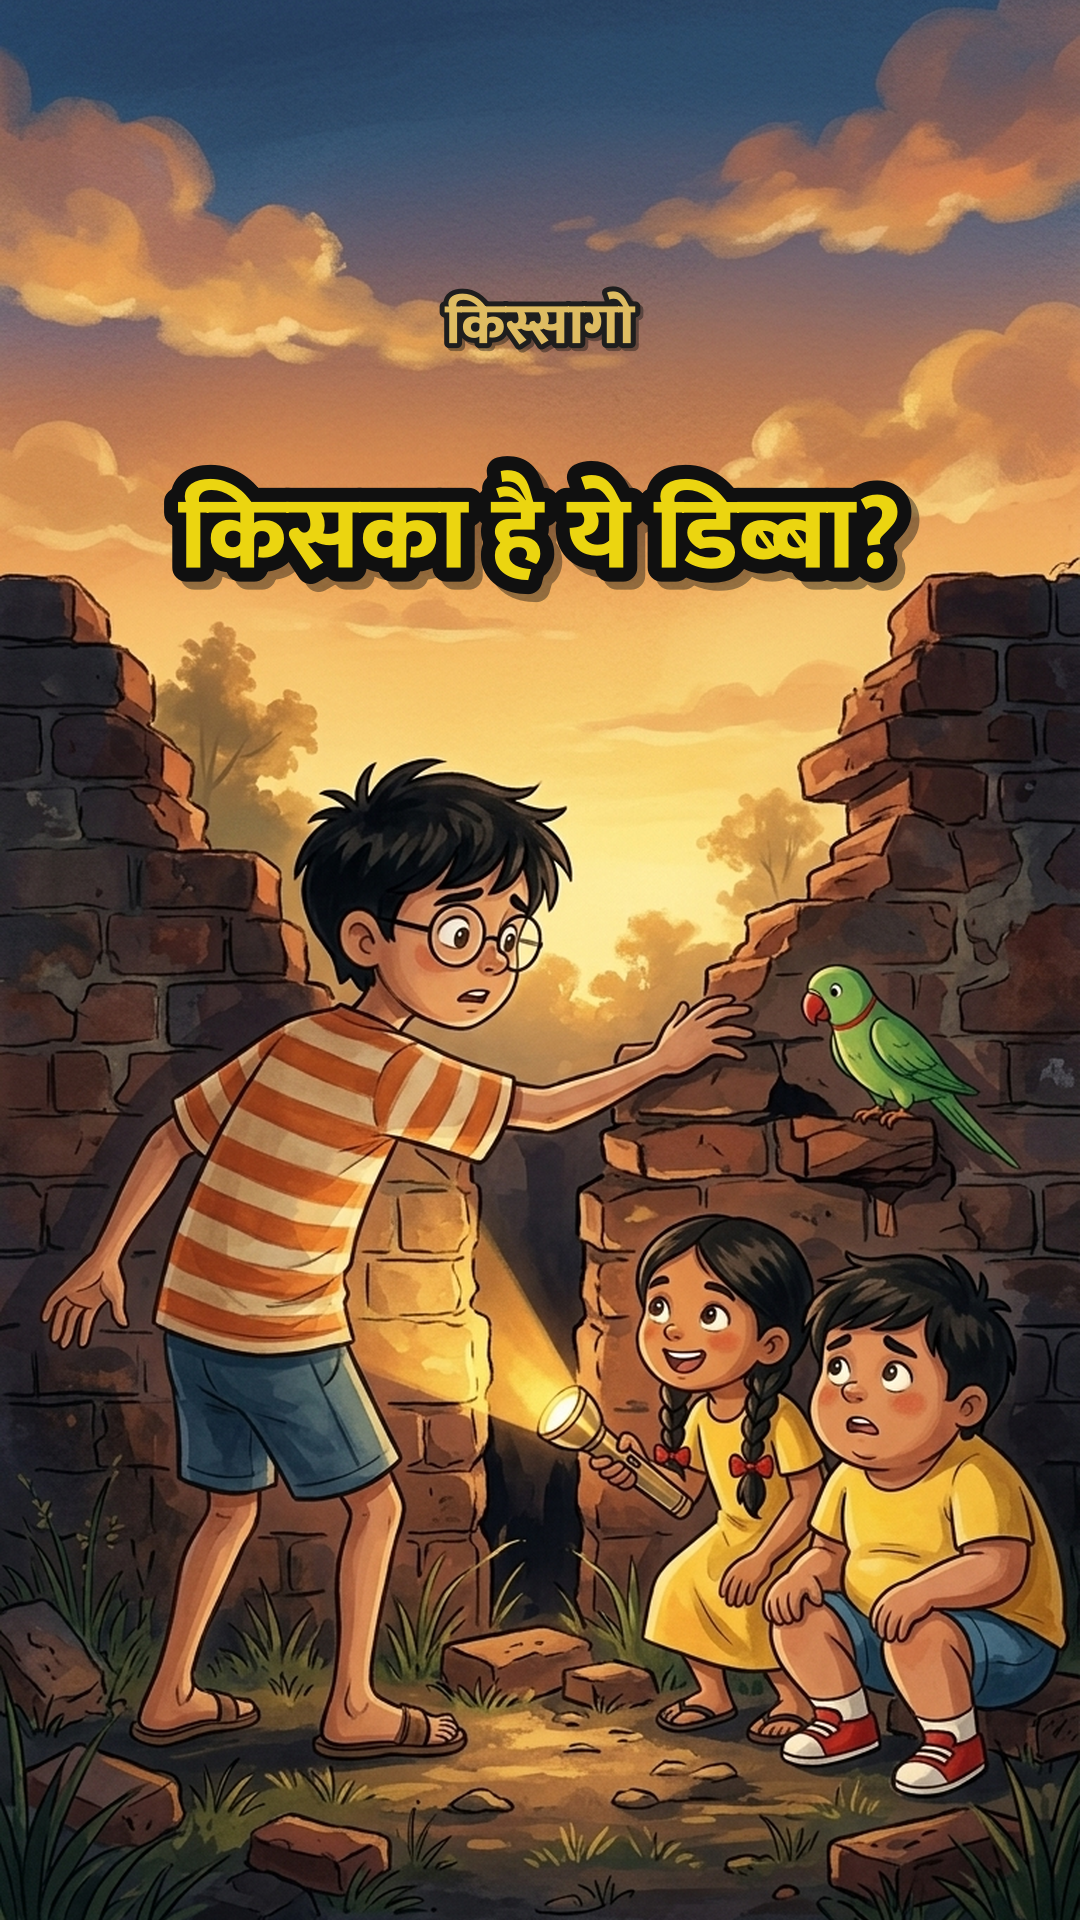
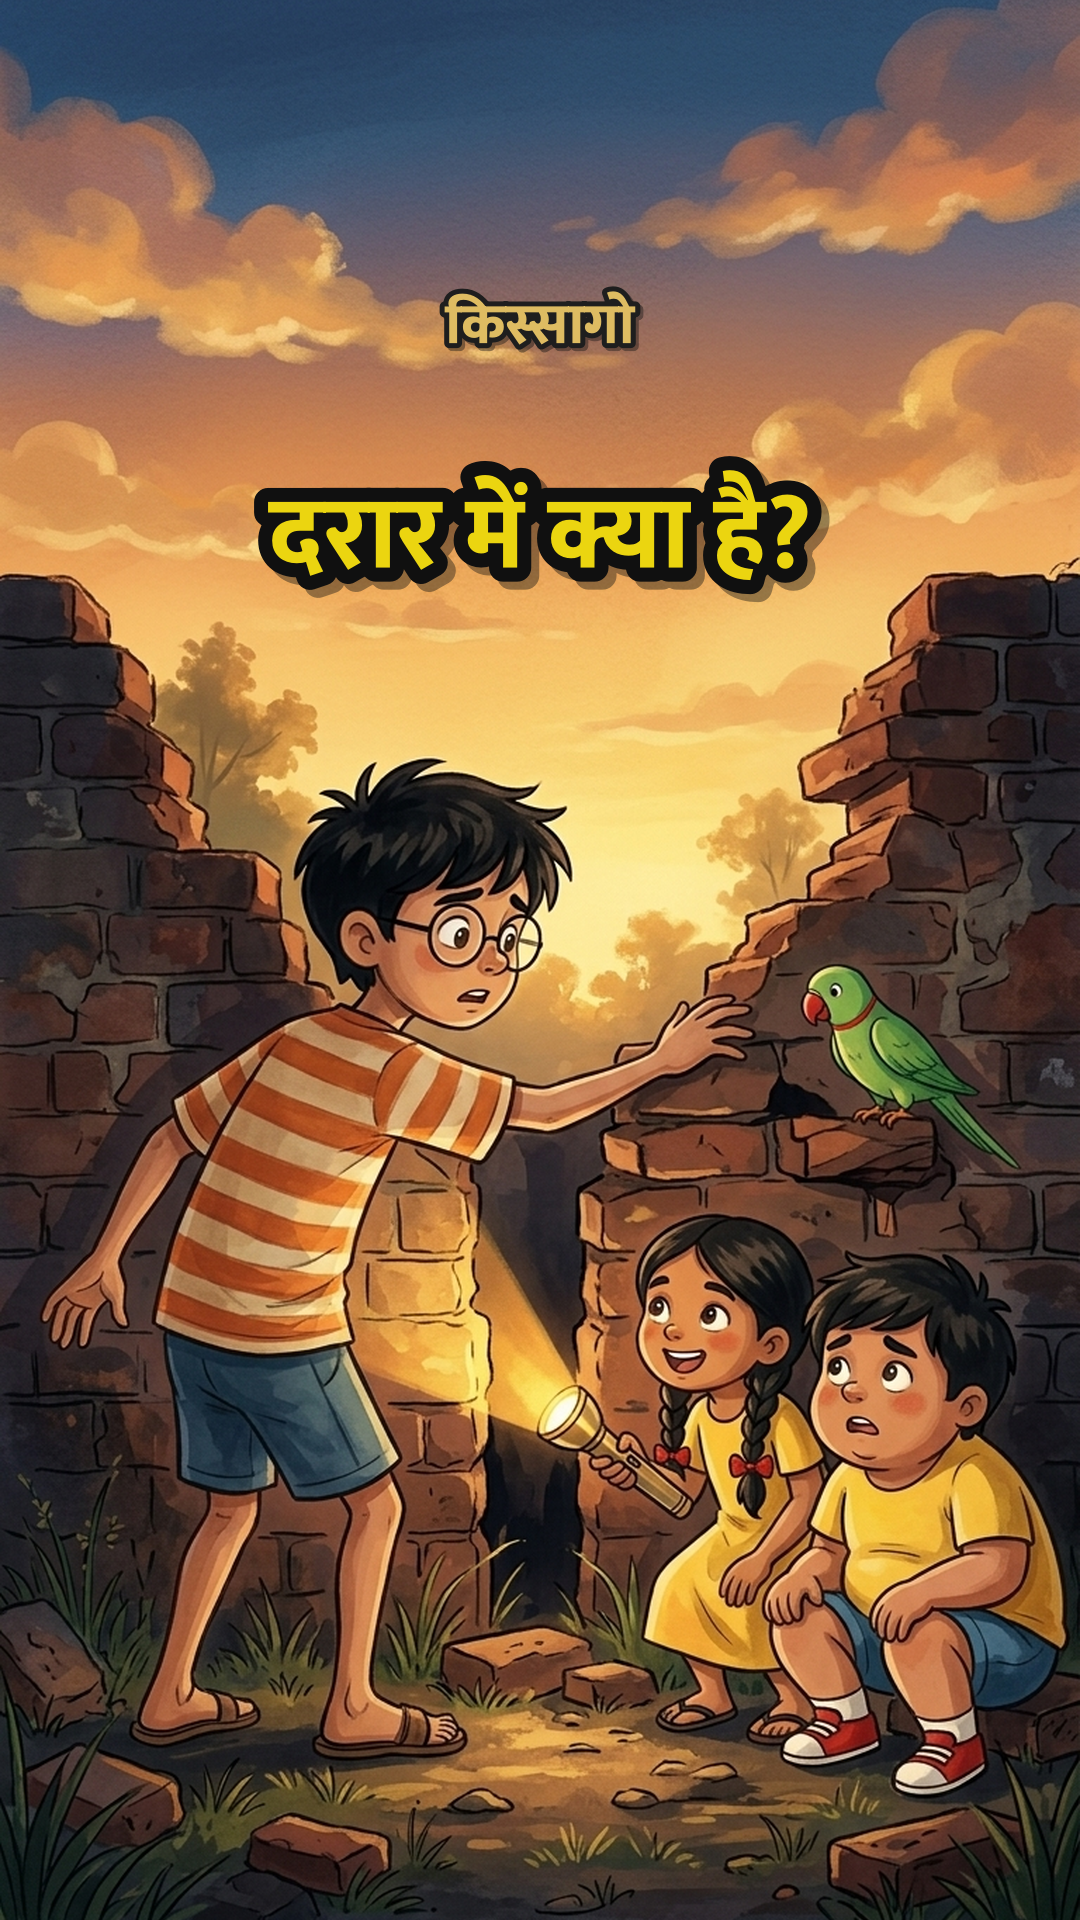
005: Short v2 (no reveal) uploaded XEnsuAw85bI 2026-10-22 21:00; RULES 13 no-reveal rule

Changed region(s): [[0.1528, 0.2188, 0.8556, 0.3125]]

diff --git a/channels/dadi-ki-kahaniyan/log.md b/channels/dadi-ki-kahaniyan/log.md
@@ -85,8 +85,13 @@
 2026-10-21 | 005_gulmohar-ka-khazana long_04 + short_01 | stages R2 (~15 min) | PASS | all R1 fixes verified with shot_times/safe_rect: Short line 3 Tinku x0.633-0.947 in frame, sc12 face/hand/torch inside 3-85%, Short shots 6.0/5.97/7.13 s; long max shot 7.72 s (L35 5.0+5.87, L38 6.5+6.9, L41 4.61 + L42 sc13 insert 4.38), sc13 revisits = separate plans/cache keys, L19-20 sc9 dry pump, end screen wide from 217.39 s, thumb both lines yellow ~12% readable 160x90, cover label 17% + title 24.5-31% no overlap, 17 register rows, --plan clean, paid sources unchanged; Note -> carry_over: L39 insert 2.2x soft; Rs0, story Rs108.96, no STOP -> FINAL
 2026-10-21 | 005_gulmohar-ka-khazana long_04 | 7 final R1 (only check, RULES 15) (~50 min) | PASS | 1920x1080 h264 High yuv420p bt709 30fps + AAC 48k st, 237.40 s (<= 4:00); -14.0 LUFS / -1.2 dBTP; music 13.3 LU under voice (own stem check over srt speech); srt 174 cues UTF-8, text = 49 lines.json lines, no overlap, none < 0.4 s, first cue 0.50 s; intro ends 8.93 s; map + 'साठ साल पुराना राज़' from 0 s; last line = viewer question; 69 shots first/mid/last sheets + full-res crops (Mitthu, Dadi, kids) clean, longest shot 7.73 s; parallax full 21 / halved 21 / zoom 27; chorus line 43 golu+tara+tinku all audible (-12.9 LUFS seg); Tara ~220 Hz / Tinku ~300 Hz (Achernar = bible); end screen wide from 217.4 s, right side clear; thumbnail 1280x720 1.44 MB ok; meta title 64, desc 1252, 5 hashtags, 15 tags 240 chars, 5 CC BY credits exact = register, SFX CC0 registered, no kids wording, twist not revealed; name_guard OK; paid sources unchanged (git); Notes -> carry_over: lines 8/49 PROPORTIONAL (Whisper coverage), drift <= 0.2 s; story ₹108.96 incl. GST (cap 110), balance ₹176.56; no STOP
 2026-10-21 | 005_gulmohar-ka-khazana short_01_khazana-ka-dabba | 7 final R1 (only check, RULES 15) (~20 min) | PASS | 1080x1920 h264 High yuv420p bt709 30fps + AAC, 36.69 s (<= 40); -13.8 LUFS / -1.4 dBTP; music 14.0 LU under voice (stem); first frame = crack + Golu/Tara (hook), no burned caption before 1 s; burned captions ~70-72% height, inside 85% width; 7 shots (max 7.13 s), Tinku/hand/torch in crop; no Dadi/Pandey face, photo = 4 children only, cliffhanger 'दादी से पूछते हैं' + end card 2 s; srt 28 cues = 7 lines (all Whisper); 2 CC BY credits exact; name_guard OK; Note: end card top line ~12.5% height, srt cue 1 at 0.00 s (CC only); no STOP
-2026-10-21 | short_01_khazana-ka-dabba | short->long checklist | video VYbq2WkgSaU -> long wKH56WivpEs | related_video: pending, pin_comment: pending
+2026-10-21 | short_01_khazana-ka-dabba | short->long checklist | video VYbq2WkgSaU -> long wKH56WivpEs | related_video: n/a, pin_comment: n/a (v1 removed by the user 2026-10-21; replaced by XEnsuAw85bI)
 2026-10-21 | 005_gulmohar-ka-khazana long_04 | publish dry-run | PASS | upload.json (channel UCy071_4g4vGemktFHybqkhQ, long, publish 2026-10-22 19:00 IST, kids=false, synthetic=false, cat 1, thumb long_04_thumbnail.png, captions long_04.srt, no playlist); 1920x1080 h264 237.4s; 2026-10-21 slots taken by Long 03/Short, 2026-10-22 free; name_guard OK
 2026-10-21 | 005_gulmohar-ka-khazana long_04 | publish | PUBLISHED | video wKH56WivpEs uploaded (scheduled 2026-10-22 19:00 IST, auto mode RULES 14/15 / script approval), thumbnail ok, captions ok, channel verified; veto: tools/veto.py wKH56WivpEs --apply; manual: confirm Scheduled in Studio (unaudited API), end screen; story ₹108.96
 2026-10-21 | 005_gulmohar-ka-khazana short_01_khazana-ka-dabba | publish | PUBLISHED | video VYbq2WkgSaU uploaded (scheduled 2026-10-22 21:00 IST), parent wKH56WivpEs, dry-run clean, desc line 1 + 1st comment task StoryChannel-Comment-VYbq2WkgSaU at 21:05 IST, captions ok, no thumb (cover file output/short_01_khazana-ka-dabba_cover.png manual), channel verified; veto: tools/veto.py VYbq2WkgSaU --apply; manual: Related video + pin comment + confirm Scheduled in Studio
 2026-10-21 | 005_gulmohar-ka-khazana | ASLI KUL KHARCHA | ₹92.34 + GST ₹16.62 = ₹108.96 (andaza tha ₹71.82; 68 paid calls, 0 bina usage = andaza) | cap ₹110
+2026-10-21 | 005_gulmohar-ka-khazana short_01 | USER: v1 Short revealed the treasure (box, marbles, photo) - user removed VYbq2WkgSaU from YouTube; first-comment task deleted; v1 files kept in output/_v1_revealed/. Rebuilding v2 (lines 1,24-28,31,32, ends on 'मिल गया!!') | cost ₹0
+2026-10-21 | 005_gulmohar-ka-khazana short_01_khazana-ka-dabba v2 | 7 final R1 (only check, RULES 15) (~25 min) | PASS | NO REVEAL (RULES 13) verified: 36 frames @1 fps + full-res crops show map/crack/torch/sparkle only, no tin box/marbles/top/photo, no Dadi/Pandey face; ends 'मिल गया!!' + end card 'क्या मिला? पूरी कहानी नीचे दिए लिंक पर'; title/desc/tags/pinned/cover text 'दरार में क्या है?' name nothing found; 1080x1920 h264 High yuv420p bt709 30fps + AAC 48k st, 35.99 s (<= 40); -14.0 LUFS / -1.5 dBTP; music 13.4 LU under voice (stems voice -16.0 / music -29.4); voice from 0.00 s; first frame Golu+map+trunk, no burned caption before frame 30 (1.00 s); srt 29 cues UTF-8, text = 8 lines.json lines (= script 1,24-28,31,32), no overlap, none < 0.4 s; parallax edges clean; 2 CC BY credits exact = register; name_guard OK; paid sources unchanged (git), no new paid call (story ₹108.96); MINOR -> carry_over: line 28 Tara (speaker) face mostly in right 15% (24.8-26.6 s), end card top line ~10% height, cover shows Mitthu who is not in v2; no STOP
+2026-10-21 | 005_gulmohar-ka-khazana short_01_khazana-ka-dabba v2 | publish dry-run | PASS | upload.json (channel UCy071_4g4vGemktFHybqkhQ verified, short, parent wKH56WivpEs, publish 2026-10-22 21:00 IST, kids=false, synthetic=false, cat 1, captions .srt, no thumb/playlist); 1080x1920 h264 36.0 s; desc line 1 + 1st comment = parent link; slot free (v1 VYbq2WkgSaU removed); name_guard OK
+2026-10-21 | short_01_khazana-ka-dabba | short->long checklist | video XEnsuAw85bI -> long wKH56WivpEs | related_video: pending, pin_comment: pending
+2026-10-21 | 005_gulmohar-ka-khazana short_01_khazana-ka-dabba v2 | publish | PUBLISHED | v2 (no reveal) replaces removed v1 VYbq2WkgSaU: video XEnsuAw85bI uploaded (scheduled 2026-10-22 21:00 IST, auto mode RULES 14/15 / script approval + user 'vo short dubara banao'), parent wKH56WivpEs, dry-run clean, desc line 1 + 1st comment task StoryChannel-Comment-XEnsuAw85bI at 21:05 IST, captions ok, no thumb (cover file output/short_01_khazana-ka-dabba_cover.png manual), channel verified; veto: tools/veto.py XEnsuAw85bI --apply; manual: Related video + pin comment + confirm Scheduled in Studio | cost ₹0 (story ₹108.96)

diff --git a/channels/dadi-ki-kahaniyan/story_registry.md b/channels/dadi-ki-kahaniyan/story_registry.md
@@ -9,4 +9,4 @@ date / video ids; views and likes are filled when analytics are read (blank unti
 | 002 · Case 01 | शर्मा जी की नई साइकिल | Dadi Jasoos mystery Short | Dadi, Golu, Mitthu, Pandey ji, Sharma ji; Pappu, Raju, Bunty | dhyan se dekho, jaldi ilzaam mat lagao | culprit revealed in the pinned comment ("बताओ, दोषी कौन?") | शर्मा जी की साइकिल किसने चुराई? \| दादी जासूस केस #1 | — | "बताओ, दोषी कौन?" | Short (2026-10-18) | | |
 | 003 · Long 02 | मिट्ठू ने सब बता दिया! | comedy (rumour) | Dadi, Golu, Mitthu, Pandey ji, Sharma ji, Raju; Raghu, Gupta aunty, Sona (cat) | सुनी-सुनाई बात बिना जाँचे आगे मत बढ़ाओ | "सोना" is Sharma ji's cat, not gold | आधी बात, पूरा हंगामा! मिट्ठू ने सब बता दिया | (thumb A: "सोना चोरी?" style) | Short "सच में चोरी?" — mohalla chases the milkman | long gLUM0zcECSk, Short BzpR3Xawpsk (2026-10-20) | | |
 | 004 · Long 03 | छत पर भूत? | night comedy → emotional | Dadi, Golu, Mitthu, Pandey ji, Sharma ji, Gupta aunty; Mishra dada | जिससे हम डरते हैं, अक्सर वो बस अकेला होता है | the "ghost" is lonely Mishra dada counting stars | आधी रात छत पर भूत? मोहल्ले का सबसे बड़ा राज़ | छत पर भूत? | the white figure slowly turns… (face never shown) | long llqRdGA08zY, Short jFXPwZE2xYY (2026-10-21) | | |
-| 005 · Long 04 | गुलमोहर मोहल्ले का खज़ाना | treasure-hunt adventure (Golu ki toli), first in Kissago Painted | Golu, Tara, Tinku, Mitthu, Dadi, Pandey ji | असली खज़ाना सच्चे दोस्त होते हैं | the 1965 box belongs to child Dadi (कम्मो) and Pandey ji's father (बबलू) | दादी का 60 साल पुराना राज़! गुलमोहर मोहल्ले का खज़ाना | किसका है ये खज़ाना? | "ये फ़ोटो में कौन हैं?" (no Dadi/Pandey face) | Long wKH56WivpEs 2026-10-22 19:00; Short VYbq2WkgSaU 2026-10-22 21:00 | | |
+| 005 · Long 04 | गुलमोहर मोहल्ले का खज़ाना | treasure-hunt adventure (Golu ki toli), first in Kissago Painted | Golu, Tara, Tinku, Mitthu, Dadi, Pandey ji | असली खज़ाना सच्चे दोस्त होते हैं | the 1965 box belongs to child Dadi (कम्मो) and Pandey ji's father (बबलू) | दादी का 60 साल पुराना राज़! गुलमोहर मोहल्ले का खज़ाना | किसका है ये खज़ाना? | "कुछ ठंडा-सा है... मिल गया!!" (v2, no reveal; v1 "ये फ़ोटो में कौन हैं?" removed) | Long wKH56WivpEs 2026-10-22 19:00; Short XEnsuAw85bI 2026-10-22 21:00 (v1 VYbq2WkgSaU removed) | | |

diff --git a/channels/dadi-ki-kahaniyan/carry_over.md b/channels/dadi-ki-kahaniyan/carry_over.md
@@ -31,3 +31,5 @@
 | 2026-10-21 | 005 long_04 final R1 (PASS) | lines 8 (Mitthu 'खज़ाना! खज़ाना!') and 49 (Dadi CTA, Whisper missed 'कमेंट में बताइए') fell back to PROPORTIONAL caption timing; measured drift <= 0.2 s, so kept | same open VAD-fallback item (2026-10-19); build summary should list PROPORTIONAL lines | noted |
 | 2026-10-21 | 005 short_01 final R1 (PASS) | end card 'पूरी कहानी नीचे दिए लिंक पर' top line at ~12.5% height (Shorts top UI band); srt cue 1 at 0.00 s (CC only) | end-card text y >= 15% in make_short; srt start from caption_from | open |
 | 2026-10-21 | Kissago Painted parallax (answer to 2026-10-20 item) | story 005 long: 21 shots full parallax, 21 halved, 27 zoom fallback; Short 4/2/1; full-res crops clean | no threshold change needed now; user can decide if more parallax is wanted | noted |
+| 2026-10-21 | 005 short_01 v2 final R1 (PASS) | line 28 'रुको! पहले टॉर्च से देखते हैं' (24.8-26.6 s): speaker Tara's face is mostly in the right 15% (YouTube buttons); scene 12 subject box covers Tinku only for that line | for a speaker line, make_short should pick the speaker's subject box (shots.json per-line subject or speaker->box map), cx so the speaker's face is inside 3-85% | open |
+| 2026-10-21 | 005 short_01 v2 final R1 (PASS) | end card top line still at ~10% height (same as v1 note); cover shows Mitthu large though Mitthu is not in v2 | end-card y >= 15% in make_short; cover prompt only characters that appear in the Short (Mitthu only as small mascot < 15%) | open |

diff --git a/shared/RULES.md b/shared/RULES.md
@@ -132,6 +132,7 @@ Long videos:
 - Visual change: no single shot stays without a cut or new camera move for more than 8 s.
 - End: the last 20 s carry no essential visuals or captions in the end-screen area, so end-screen elements can sit there. The last spoken line asks viewers one specific question about the story (for comments), not a generic "like and subscribe".
 Shorts:
+- No reveal (user rule 2026-10-21): a Short cut from a long video stops BEFORE the discovery/answer — it never shows or names what was found, who did it, or the twist (e.g. no box contents, no culprit, no photo). It ends on the question or the moment of discovery ("मिल गया!!"), so the long video keeps the payoff. A reveal in a Short = BLOCKER.
 - First frame is a strong visual (no title card, no black frame). First word within 0.5 s.
 - Length 30-58 s (stories up to 003). From story 004: max 40 s, target 35-40 s (section 15).
 - Captions and key visuals stay out of the bottom 20% and right 15% (YouTube buttons).

diff --git a/.claude/agents/kalam.md b/.claude/agents/kalam.md
@@ -40,6 +40,7 @@ Write in exactly the story 004/005 format:
    `[COZY ...]` lines numbered too; section headings (SHURUAAT, …, ANT).
 4. **16 IMAGES plan** (new character sheets count inside the 16): image number, what it shows, which lines use it;
    which shots are crops/zooms of another image.
+4b. **SHORT rule:** the Short stops BEFORE the discovery/answer (RULES 13 no-reveal): never show or name what was found, who did it or the twist; end on the question or the moment of discovery. Title, description and cover of the Short must not reveal it either.
 5. **3 TITLE options** (all with the `title_suffix` "| किस्सागो", no repeated keyword block across videos, RULES 12) and one recommendation; **THUMBNAIL** (look + text, text not repeating the title word for word, RULES 6), **SHORT** (line
    numbers, cliffhanger line, what must never be shown, end card).
 6. **Length estimate** (see below) and **Continuity table** (see below).

diff --git a/channels/dadi-ki-kahaniyan/stories/005_gulmohar-ka-khazana/story.md b/channels/dadi-ki-kahaniyan/stories/005_gulmohar-ka-khazana/story.md
@@ -15,5 +15,5 @@
 | TTS | done |
 | Long video | long_04.mp4 237.4 s, Munshi final R1 PASS 2026-10-21 |
 | Thumbnail | long_04_thumbnail.png (set via API) |
-| Short A | short_01_khazana-ka-dabba.mp4 36.7 s, final R1 PASS; cover file manual |
-| Upload | PUBLISHED (scheduled): Long 04 wKH56WivpEs 2026-10-22 19:00 IST; Short VYbq2WkgSaU 2026-10-22 21:00 IST (parent wKH56WivpEs). Story cost ₹108.96 incl. GST |
+| Short A | v2 (no reveal, ends on "मिल गया!!") short_01_khazana-ka-dabba.mp4 36.0 s, final R1 PASS 2026-10-21; cover file manual. v1 (36.7 s, showed box/marbles/photo) removed by the user, files in output/_v1_revealed/ |
+| Upload | PUBLISHED (scheduled): Long 04 wKH56WivpEs 2026-10-22 19:00 IST; Short v2 XEnsuAw85bI 2026-10-22 21:00 IST (parent wKH56WivpEs; v1 VYbq2WkgSaU removed by the user). Story cost ₹108.96 incl. GST |

diff --git a/.claude/skills/step-review/SKILL.md b/.claude/skills/step-review/SKILL.md
@@ -74,6 +74,7 @@ Use this after every production step of a video in the Story-Channel project. Al
   "motion halved / zoom fallback" list and shared/parallax_log.jsonl has every shot's decision. A visible artifact
   on a face or a key character -> BLOCKER: fix free by rebuilding that scene with smaller motion or
   `--motion zoom` for it (log it); minor edge softness elsewhere -> MINOR.
+- Shorts no-reveal (RULES 13): the Short (frames, captions, end card, title, description, cover) shows nothing of the discovery/answer/twist — not what was found, not who did it. Any reveal = BLOCKER.
 - Shorts crop safety: in each shot the speaking character's face, hands and gesture are fully inside the crop and
   out of the right 15% (YouTube buttons) and bottom 20%; shots.json "subjects" boxes drive the builder's check.
 
